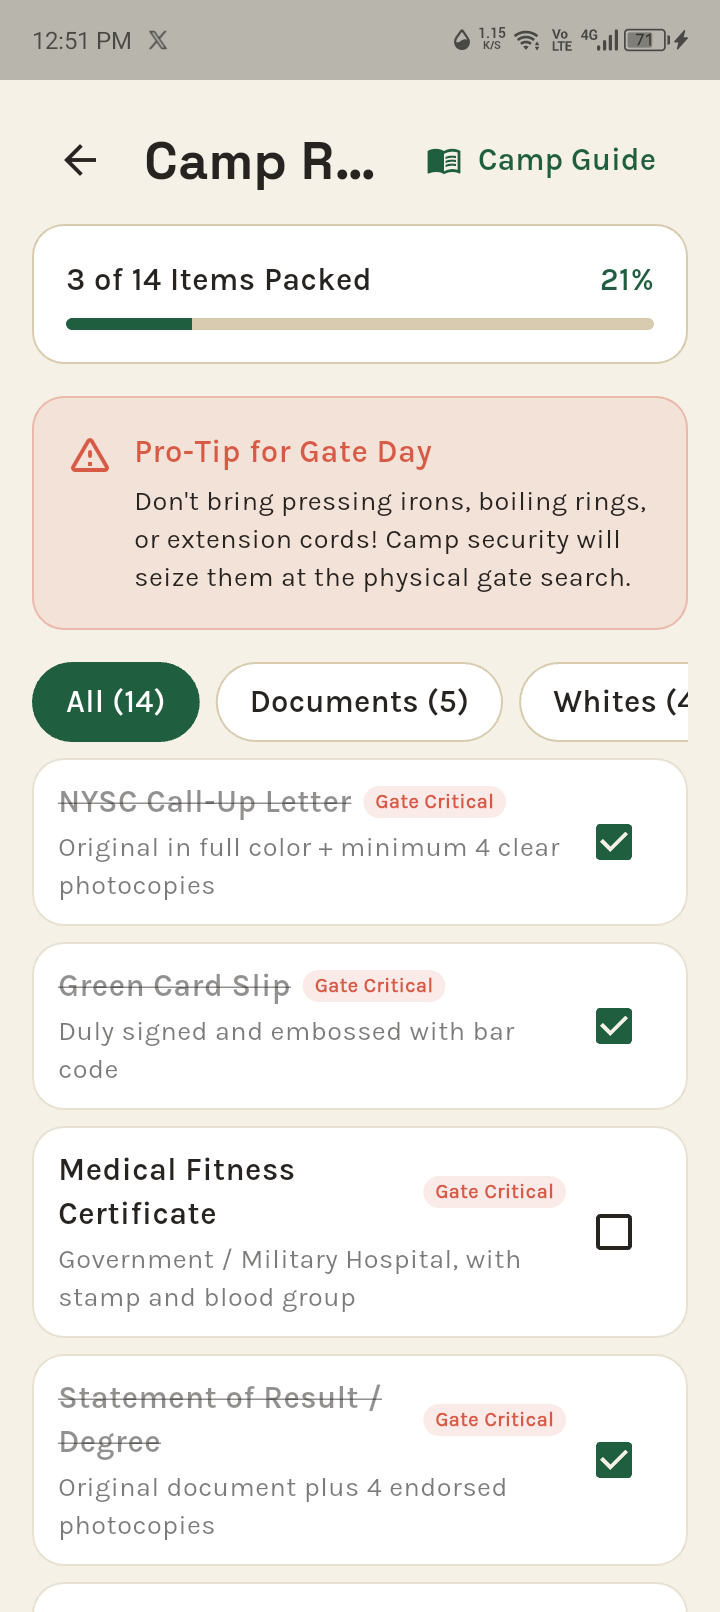
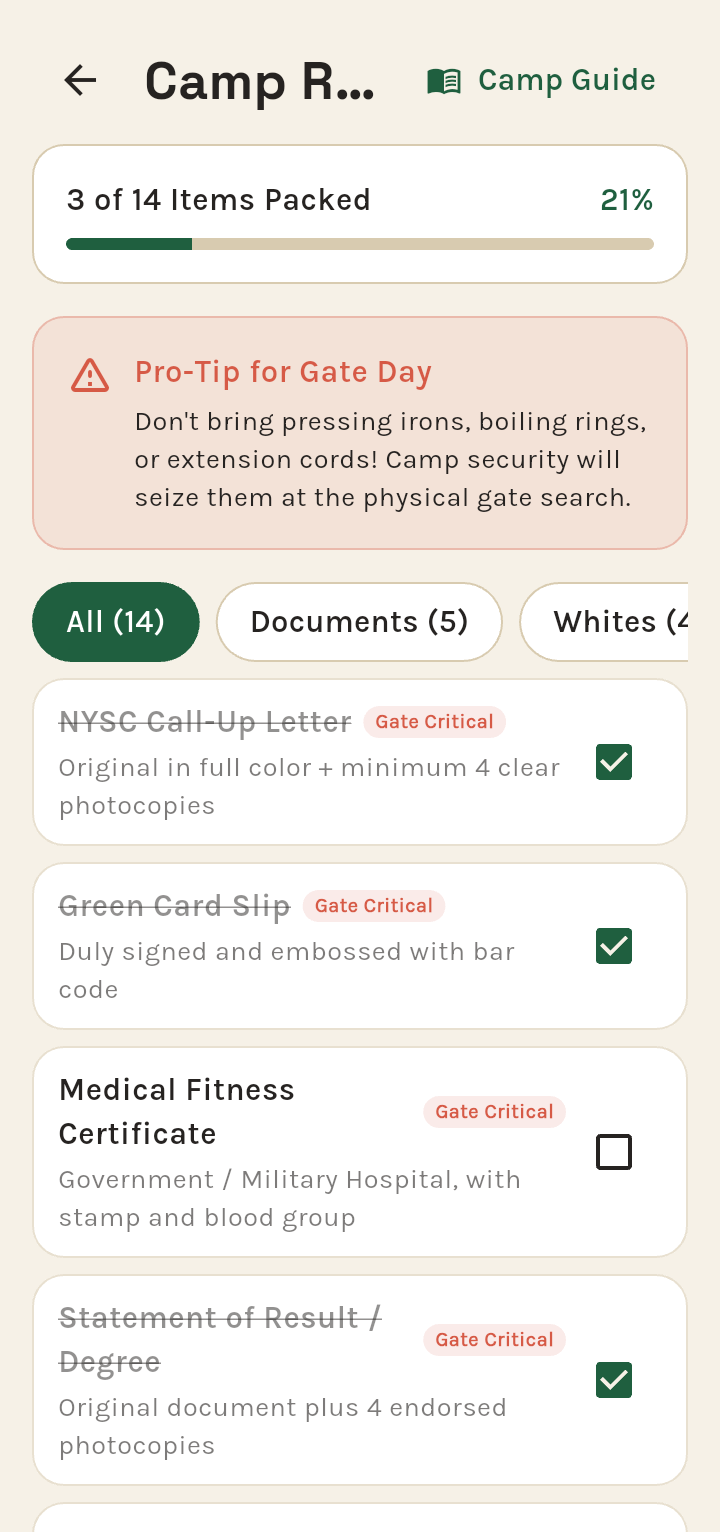
Crop status bar from screenshots, fix image aspect ratios
- Removed the top 80px (time/notifications/battery status bar) from
  all 8 screenshots so the site only shows in-app content
- Updated hardcoded Image width/height props on the landing page to
  match the new 720x1532 aspect ratio, avoiding stretched thumbnails

diff --git a/app/page.tsx b/app/page.tsx
@@ -102,7 +102,7 @@ export default function Home() {
                 src={`/screenshots/${file}`}
                 alt="Corper Companion app screenshot"
                 width={220}
-                height={476}
+                height={468}
                 className="rounded-2xl border border-khaki-sand shadow-md"
               />
             ))}
@@ -161,7 +161,7 @@ export default function Home() {
                   src={f.screenshot}
                   alt={`${f.title} screenshot`}
                   width={90}
-                  height={195}
+                  height={191}
                   className="h-auto w-20 shrink-0 rounded-lg border border-khaki-sand"
                 />
                 <div>
